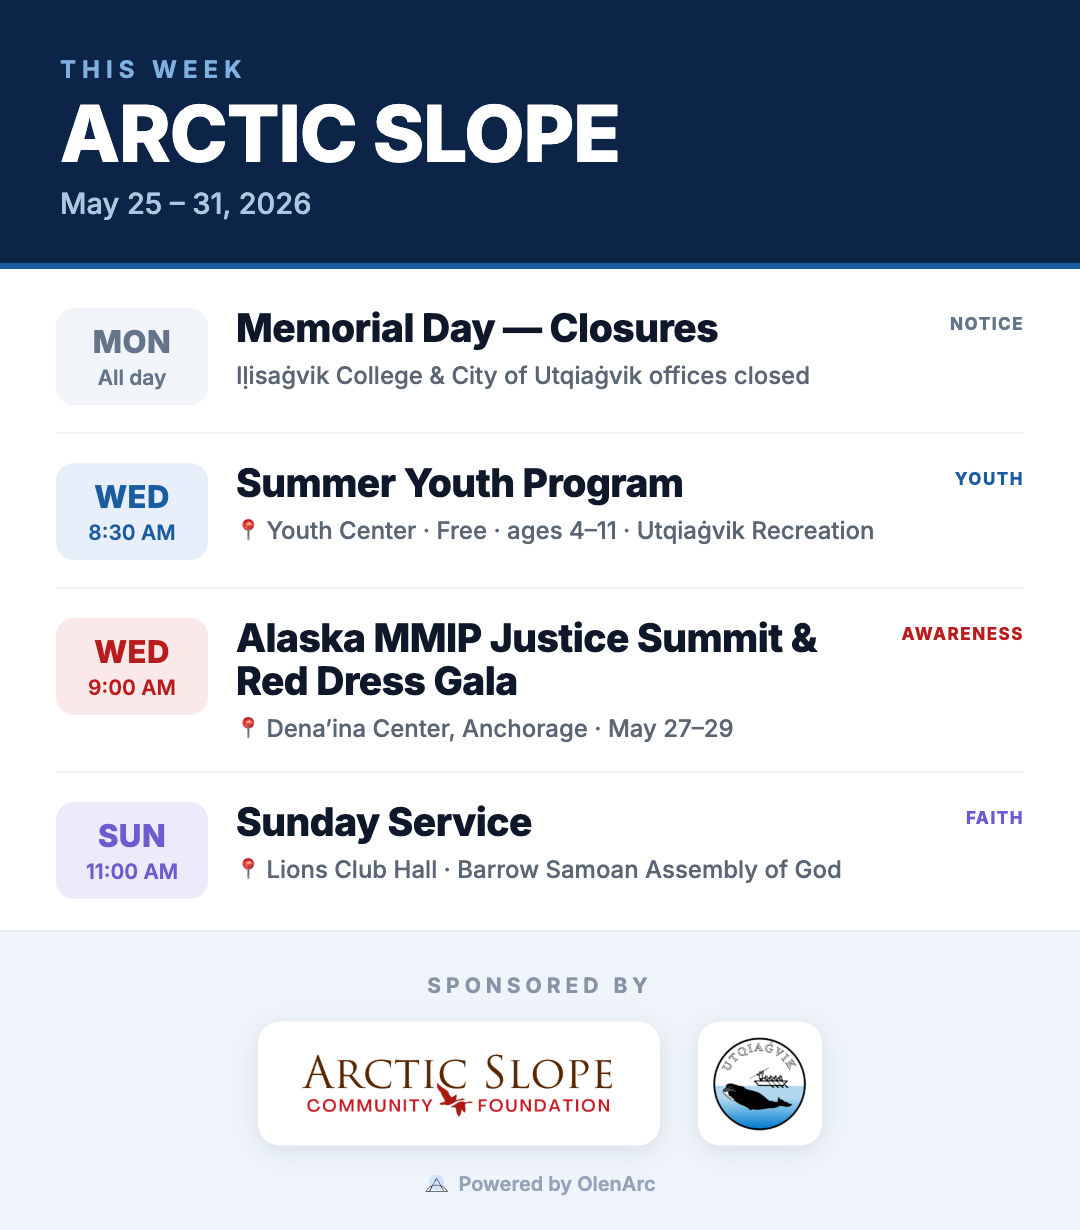
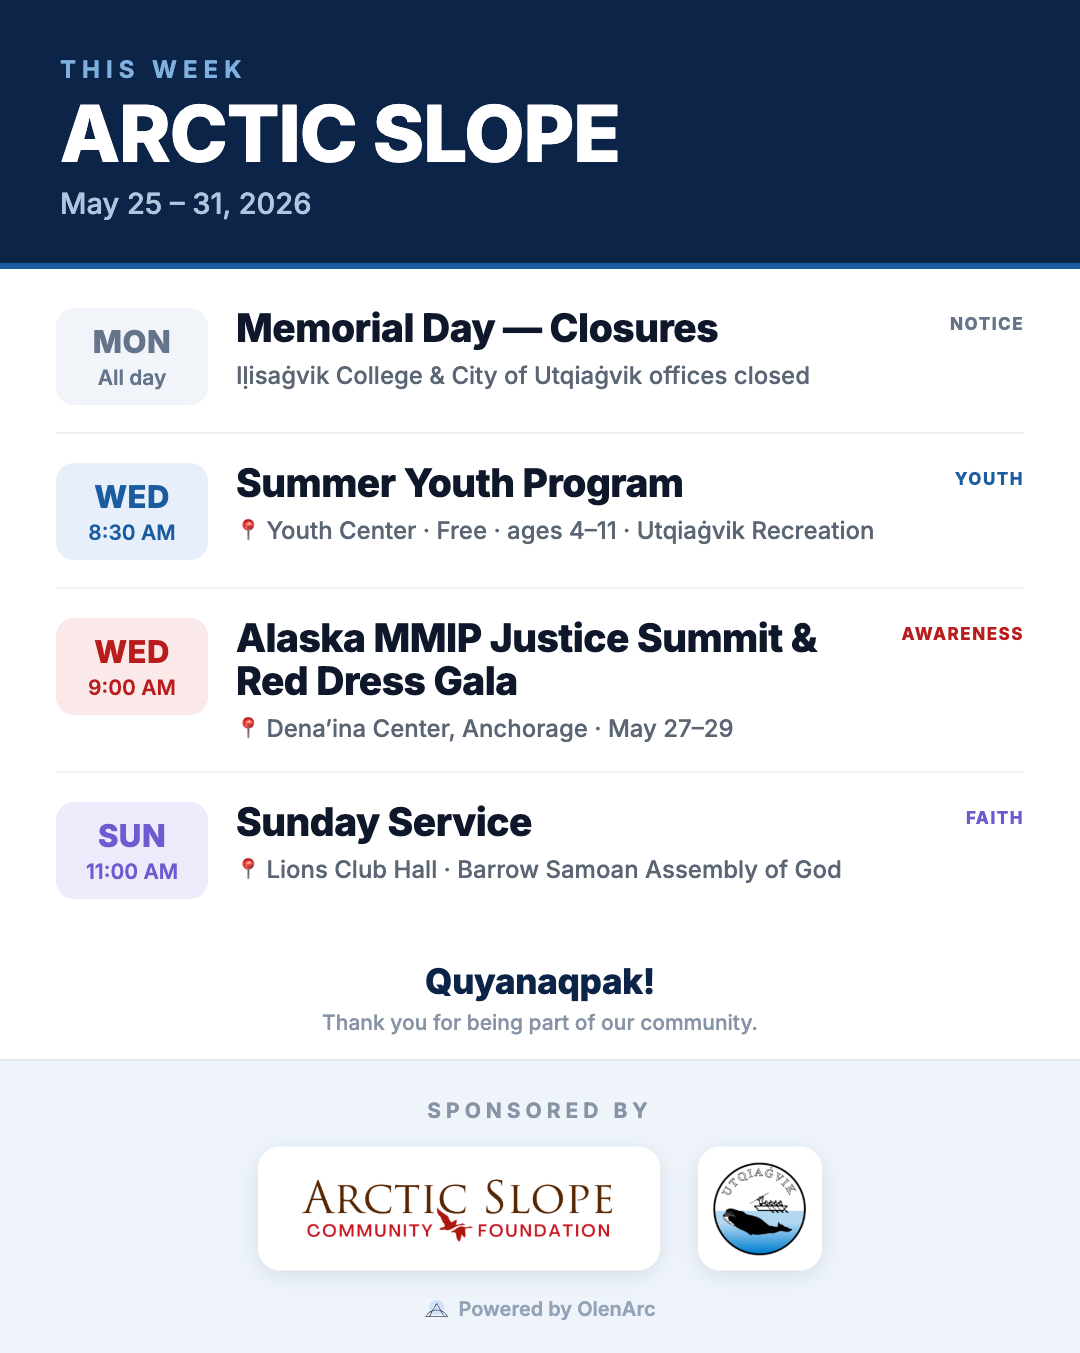
Page 1: add Quyanaqpak Inupiaq sign-off; Culture added to category system

diff --git a/index.html b/index.html
@@ -1,6 +1,6 @@
 <!DOCTYPE html>
 <html lang="en">
-<!-- digest-postpage-v13 -->
+<!-- digest-postpage-v14 -->
 <head>
 <meta charset="utf-8">
 <meta name="viewport" content="width=device-width, initial-scale=1">
@@ -35,7 +35,7 @@
 
   <div class="card">
     <div class="step">1 · The picture</div>
-    <img class="poster" src="poster.png?v=13" alt="This week in Arctic Slope">
+    <img class="poster" src="poster.png?v=14" alt="This week in Arctic Slope">
     <p class="hint">📱 <b>Long-press the picture → Save to Photos.</b> One clean image — big text, easy to read in the feed.</p>
   </div>
 